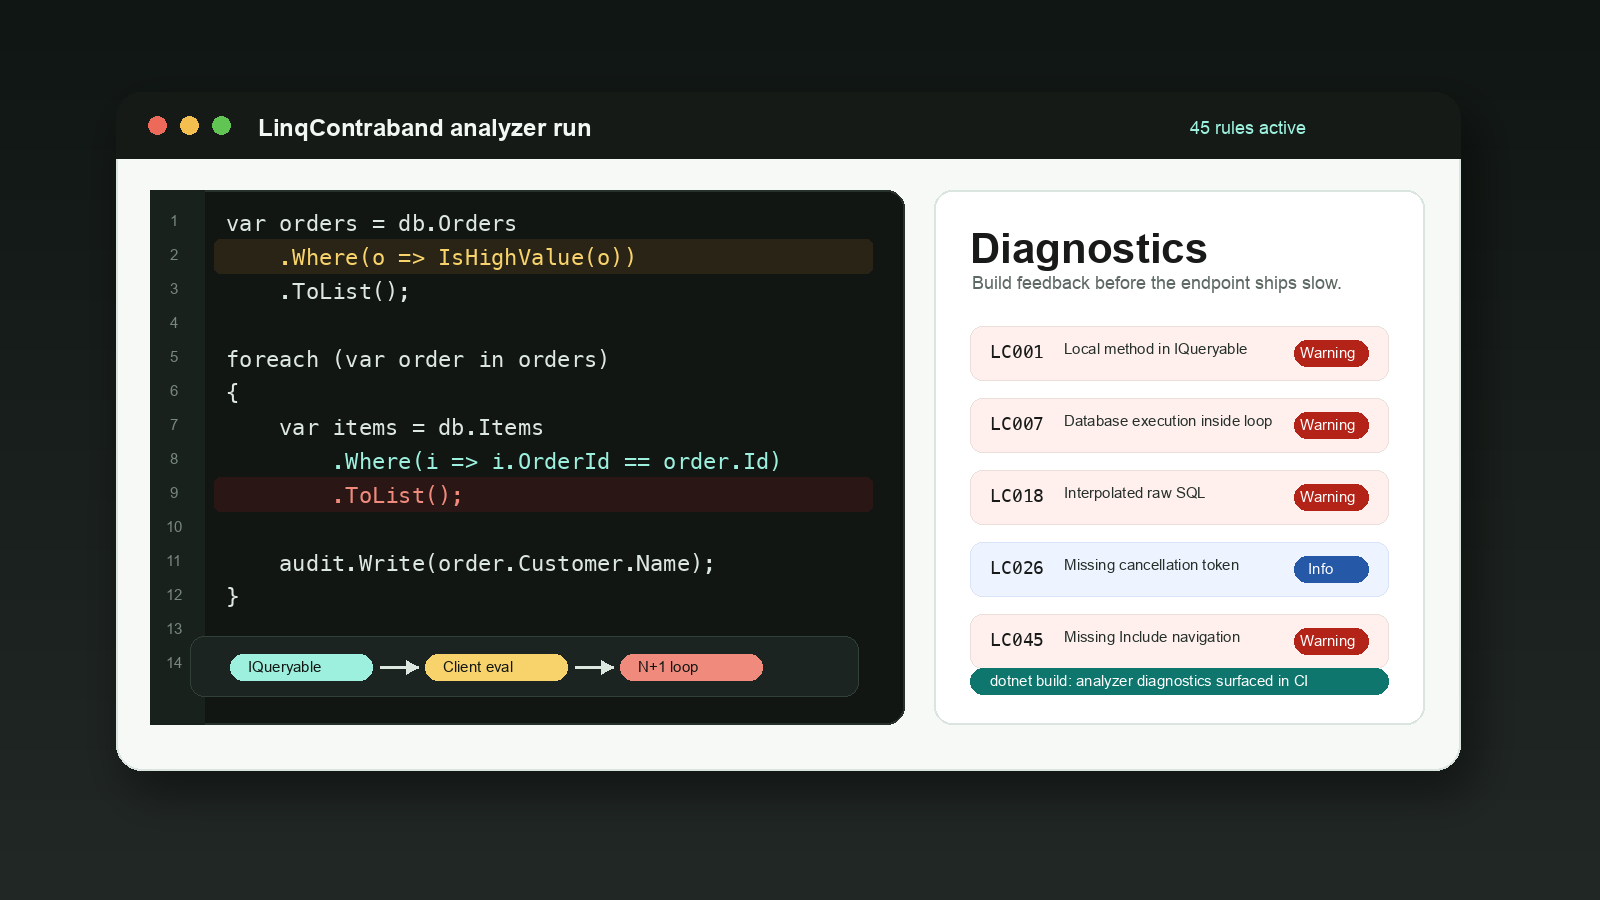
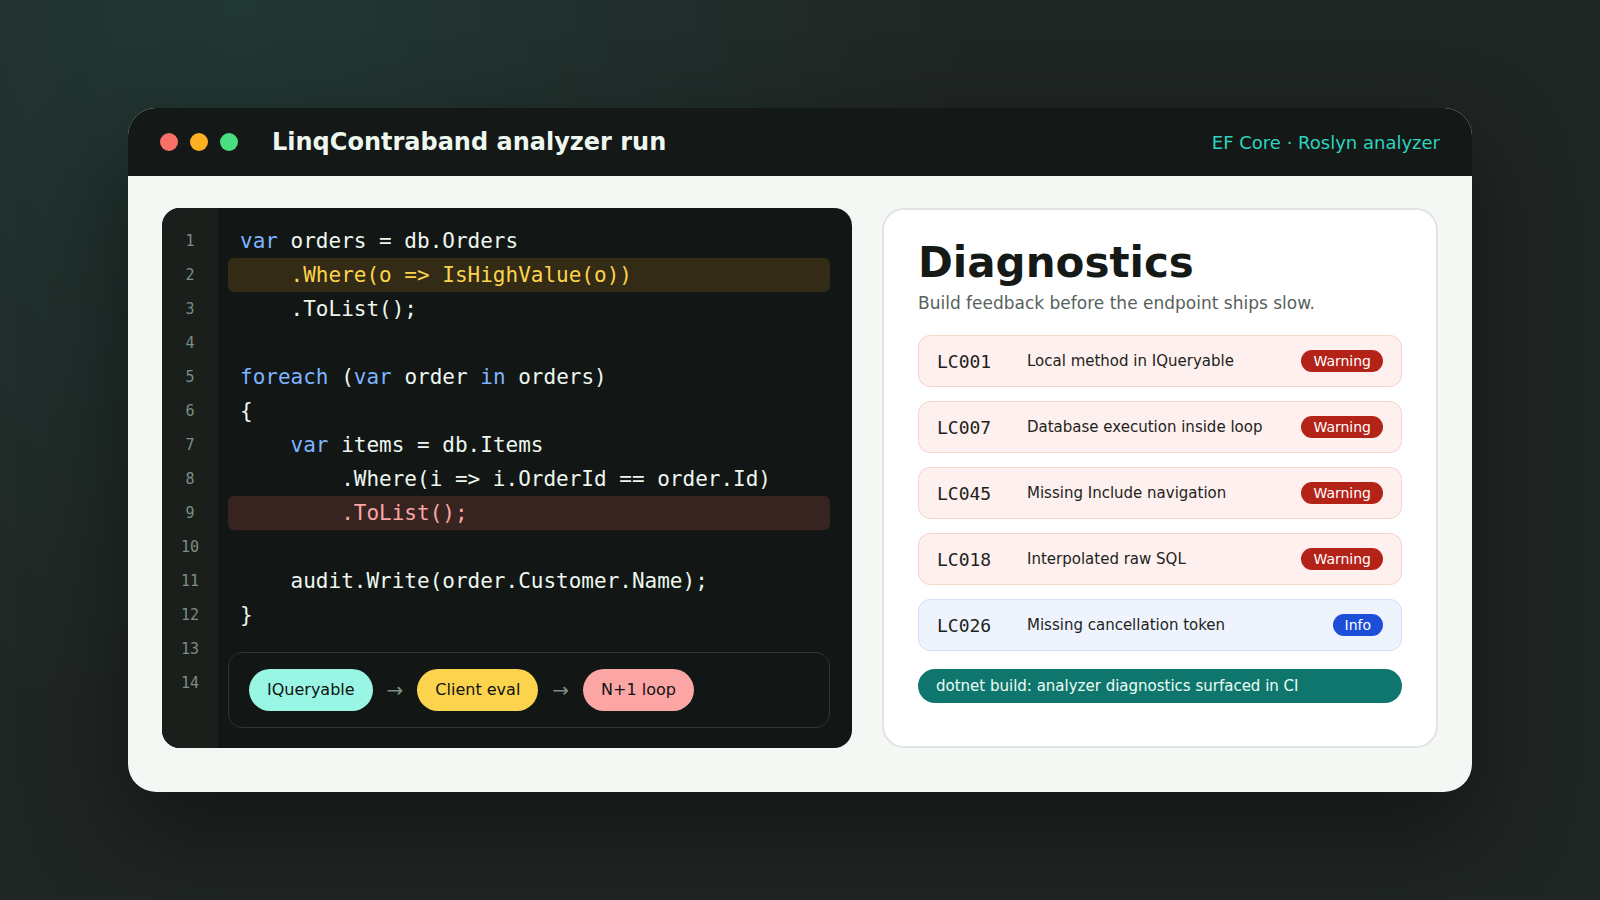
docs: re-render the home hero image from source and fix its mobile title
The home page hero backdrop said "45 rules active" and had no source
file. It is now rendered from tools/SocialCard/hero.html by the same
render.mjs that produces the social card, without any counts, and with
the CI banner no longer overlapping the last diagnostic.

The hero stat "50 compile-time EF Core rules" now reads the count from
site data, and the count test also catches a number split from its noun
by inline tags. On phones the hero title used a fixed 3.4rem and ran off
the right edge; it now scales with the viewport.

Claude-Session: https://claude.ai/code/session_018odFbUzi7MDTBkmiFRCt1y

Changed region(s): [[0.0, 0.0, 0.9375, 0.9022], [0.1562, 0.3733, 0.375, 0.4356], [0.1562, 0.6222, 0.4375, 0.6533]]

diff --git a/tools/SocialCard/hero.html b/tools/SocialCard/hero.html
@@ -1,0 +1,129 @@
+<!doctype html>
+<!--
+  Source for docs/assets/img/linqcontraband-diagnostics.png (1600x900): the backdrop of the docs
+  home page hero, shown under a dark shade with the page title on top.
+  Regenerate with: node tools/SocialCard/render.mjs  (needs the playwright package and a Chromium).
+  Keep counts and version numbers out of the image so it never goes stale.
+-->
+<html lang="en">
+<head>
+<meta charset="utf-8">
+<style>
+  :root {
+    --bg: #202624;
+    --chrome: #141816;
+    --editor: #121614;
+    --gutter: #1a1f1c;
+    --text: #edf6ef;
+    --muted: #7d8c84;
+    --teal: #2dd4bf;
+    --red: #b42318;
+    --blue: #1d4ed8;
+    --paper: #f5f7f5;
+  }
+  * { box-sizing: border-box; margin: 0; }
+  html, body { width: 1600px; height: 900px; }
+  body {
+    display: grid;
+    place-items: center;
+    background:
+      radial-gradient(circle at 15% 0%, rgb(45 212 191 / 10%), transparent 45%),
+      var(--bg);
+    font-family: "DejaVu Sans", "Segoe UI", Helvetica, Arial, sans-serif;
+  }
+  .window {
+    width: 1344px; border-radius: 28px; overflow: hidden;
+    background: var(--paper); box-shadow: 0 40px 100px rgb(0 0 0 / 45%);
+  }
+  .titlebar {
+    display: flex; align-items: center; gap: 12px; height: 68px; padding: 0 32px;
+    background: var(--chrome); color: var(--text);
+  }
+  .dot { width: 18px; height: 18px; border-radius: 50%; }
+  .title { margin-left: 22px; font-size: 24px; font-weight: 700; }
+  .status { margin-left: auto; color: var(--teal); font-size: 18px; }
+  .body { display: grid; grid-template-columns: 690px 1fr; gap: 30px; padding: 32px 34px 44px; }
+  .editor {
+    display: grid; grid-template-columns: 56px 1fr; border-radius: 18px; overflow: hidden;
+    background: var(--editor); color: var(--text);
+    font-family: "DejaVu Sans Mono", Consolas, monospace; font-size: 21px; line-height: 34px;
+  }
+  .gutter { padding: 16px 0; background: var(--gutter); color: var(--muted); font-size: 15px; text-align: center; }
+  .code { padding: 16px 22px 20px 10px; }
+  .line { padding-left: 12px; border-radius: 6px; white-space: pre; }
+  .warn { background: rgb(253 176 34 / 14%); color: #fcd34d; }
+  .err { background: rgb(249 112 102 / 16%); color: #fca5a5; }
+  .k { color: #7cb4ff; }
+  .flow {
+    display: flex; align-items: center; gap: 14px; margin-top: 20px; padding: 16px 20px;
+    border: 1px solid #2c3530; border-radius: 14px; font-family: "DejaVu Sans", Helvetica, Arial, sans-serif; font-size: 16px;
+  }
+  .chip { padding: 4px 18px; border-radius: 999px; color: #111; }
+  .arrow { color: var(--muted); font-size: 20px; }
+  .panel {
+    display: flex; flex-direction: column; gap: 14px; padding: 28px 34px;
+    border: 2px solid #dfe5e1; border-radius: 22px; background: #fff;
+  }
+  h2 { font-size: 42px; color: #151a17; }
+  .panel p { margin: -8px 0 8px; color: #56625b; font-size: 17px; }
+  .diag {
+    display: grid; grid-template-columns: 76px 1fr auto; align-items: center; gap: 14px;
+    padding: 14px 18px; border-radius: 12px; background: #fdf0ee; border: 1px solid #f6d3cd;
+    font-size: 15px; color: #1d2320;
+  }
+  .diag.info { background: #eef3fd; border-color: #d4dff6; }
+  .diag code { font-family: "DejaVu Sans Mono", Consolas, monospace; font-size: 18px; }
+  .sev { padding: 3px 12px; border-radius: 999px; background: var(--red); color: #fff; font-size: 14px; }
+  .info .sev { background: var(--blue); }
+  .ci {
+    margin-top: 4px; padding: 8px 18px; border-radius: 999px;
+    background: #0f766e; color: #ecfdf5; font-size: 15px;
+  }
+</style>
+</head>
+<body>
+  <div class="window">
+    <div class="titlebar">
+      <span class="dot" style="background:#f97066"></span>
+      <span class="dot" style="background:#fdb022"></span>
+      <span class="dot" style="background:#4ade80"></span>
+      <span class="title">LinqContraband analyzer run</span>
+      <span class="status">EF Core · Roslyn analyzer</span>
+    </div>
+    <div class="body">
+      <div class="editor">
+        <div class="gutter">1<br>2<br>3<br>4<br>5<br>6<br>7<br>8<br>9<br>10<br>11<br>12<br>13<br>14</div>
+        <div class="code">
+          <div class="line"><span class="k">var</span> orders = db.Orders</div>
+          <div class="line warn">    .Where(o =&gt; IsHighValue(o))</div>
+          <div class="line">    .ToList();</div>
+          <div class="line"> </div>
+          <div class="line"><span class="k">foreach</span> (<span class="k">var</span> order <span class="k">in</span> orders)</div>
+          <div class="line">{</div>
+          <div class="line">    <span class="k">var</span> items = db.Items</div>
+          <div class="line">        .Where(i =&gt; i.OrderId == order.Id)</div>
+          <div class="line err">        .ToList();</div>
+          <div class="line"> </div>
+          <div class="line">    audit.Write(order.Customer.Name);</div>
+          <div class="line">}</div>
+          <div class="flow">
+            <span class="chip" style="background:#99f6e4">IQueryable</span><span class="arrow">→</span>
+            <span class="chip" style="background:#fcd34d">Client eval</span><span class="arrow">→</span>
+            <span class="chip" style="background:#fca5a5">N+1 loop</span>
+          </div>
+        </div>
+      </div>
+      <div class="panel">
+        <h2>Diagnostics</h2>
+        <p>Build feedback before the endpoint ships slow.</p>
+        <div class="diag"><code>LC001</code><span>Local method in IQueryable</span><span class="sev">Warning</span></div>
+        <div class="diag"><code>LC007</code><span>Database execution inside loop</span><span class="sev">Warning</span></div>
+        <div class="diag"><code>LC045</code><span>Missing Include navigation</span><span class="sev">Warning</span></div>
+        <div class="diag"><code>LC018</code><span>Interpolated raw SQL</span><span class="sev">Warning</span></div>
+        <div class="diag info"><code>LC026</code><span>Missing cancellation token</span><span class="sev">Info</span></div>
+        <div class="ci">dotnet build: analyzer diagnostics surfaced in CI</div>
+      </div>
+    </div>
+  </div>
+</body>
+</html>

diff --git a/docs/index.html b/docs/index.html
@@ -19,7 +19,7 @@ body_class: page-home
       <a class="button button--secondary" href="https://github.com/georgepwall1991/LinqContraband">View source</a>
     </div>
     <ul class="hero-stats" aria-label="Project highlights">
-      <li><strong>50</strong><span>compile-time EF Core rules</span></li>
+      <li><strong>{{ site.data.rules | size }}</strong><span>compile-time EF Core rules</span></li>
       <li><strong>0</strong><span>runtime dependency in your app</span></li>
       <li><strong>MIT</strong><span>open source and source linked</span></li>
     </ul>

diff --git a/docs/assets/css/site.css b/docs/assets/css/site.css
@@ -952,7 +952,7 @@ a:hover {
   }
 
   .home-hero h1 {
-    font-size: 3.4rem;
+    font-size: clamp(2rem, 9.5vw, 3.4rem);
   }
 
   .hero-stats,

diff --git a/tests/LinqContraband.Tests/Architecture/DiscoverabilityMetadataTests.cs b/tests/LinqContraband.Tests/Architecture/DiscoverabilityMetadataTests.cs
@@ -190,15 +190,16 @@ public sealed class DiscoverabilityMetadataTests
         // New rules land often, so a typed-in count ("47 rules") goes stale on the next release.
         // Pages use {{ site.data.rules | size }} instead; front matter cannot, so it names no count.
         var countPattern = new Regex(
-            @"\b[1-9][0-9] (?:[A-Za-z]+ ){0,3}(?:rules|diagnostics|analy[sz]ers)\b",
+            @"\b[1-9][0-9](?:\s|</?[a-z]+>)+(?:[A-Za-z-]+ ){0,3}(?:rules|diagnostics|analy[sz]ers)\b",
             RegexOptions.IgnoreCase);
         var docsRoot = Path.Combine(RepositoryRoot, "docs");
         var failures = new List<string>();
 
         foreach (var path in Directory.EnumerateFiles(docsRoot, "*.md").Concat(Directory.EnumerateFiles(docsRoot, "*.html")))
         {
-            // The health doc is an audit log; its counts describe past releases on purpose.
-            if (Path.GetFileName(path) == "analyzer-health.md")
+            // The health doc is an audit log whose counts describe past releases on purpose, and
+            // RuleCatalogDocGenerator writes the catalog's counts (CI's --check keeps them current).
+            if (Path.GetFileName(path) is "analyzer-health.md" or "rule-catalog.md")
                 continue;
 
             var lines = File.ReadAllLines(path);

diff --git a/CHANGELOG.md b/CHANGELOG.md
@@ -12,6 +12,7 @@ and this project adheres to [Semantic Versioning](https://semver.org/spec/v2.0.0
 - The README (also the NuGet readme) shows the OpenSSF Scorecard badge, and the documentation site's link previews use a new 1280x640 social card (source in `tools/SocialCard/`) instead of the old diagnostics screenshot, which still said 45 rules.
 - The rule catalog page has a search box that filters rules by ID or keyword as you type, with toggles for rules that have a code fix and for warnings. `?q=` links open it pre-filtered. Without JavaScript the page stays a plain list.
 - The documentation site takes its rule count from the generated rule data instead of hard-coded numbers, several of which still said 45 or 47. The rule guide and the query performance checklist now cover LC048, LC049 and LC050.
+- The documentation home page's hero image no longer shows a stale "45 rules active" count. It is now rendered from `tools/SocialCard/hero.html`, and the hero title no longer runs off the screen on phones.
 - LC018 and LC034 no longer double-report lines that EF Core's own analyzers already flag. EF Core 8+ reports interpolated SQL passed straight to `FromSqlRaw`, `SqlQueryRaw`, `ExecuteSqlRaw` and `ExecuteSqlRawAsync` as EF1002, and EF Core 10+ reports concatenated SQL there as EF1003, each with its own fix. LC018 and LC034 now stay quiet on exactly those calls and keep reporting what EF misses: concatenation on EF Core 8 and 9, reordered named `sql:` arguments, EF Core 7 and older, and non-relational providers such as Cosmos. Set `dotnet_code_quality.LC018.defer_to_ef_analyzers = false` (or `LC034`) if your build excludes EF Core's analyzers. The `security`, `critical` and `strict` presets now also make EF1002 and EF1003 build errors, so they keep failing the build on those lines. LC037 does not overlap EF's analyzers and is unchanged.
 
 ### Fixed
